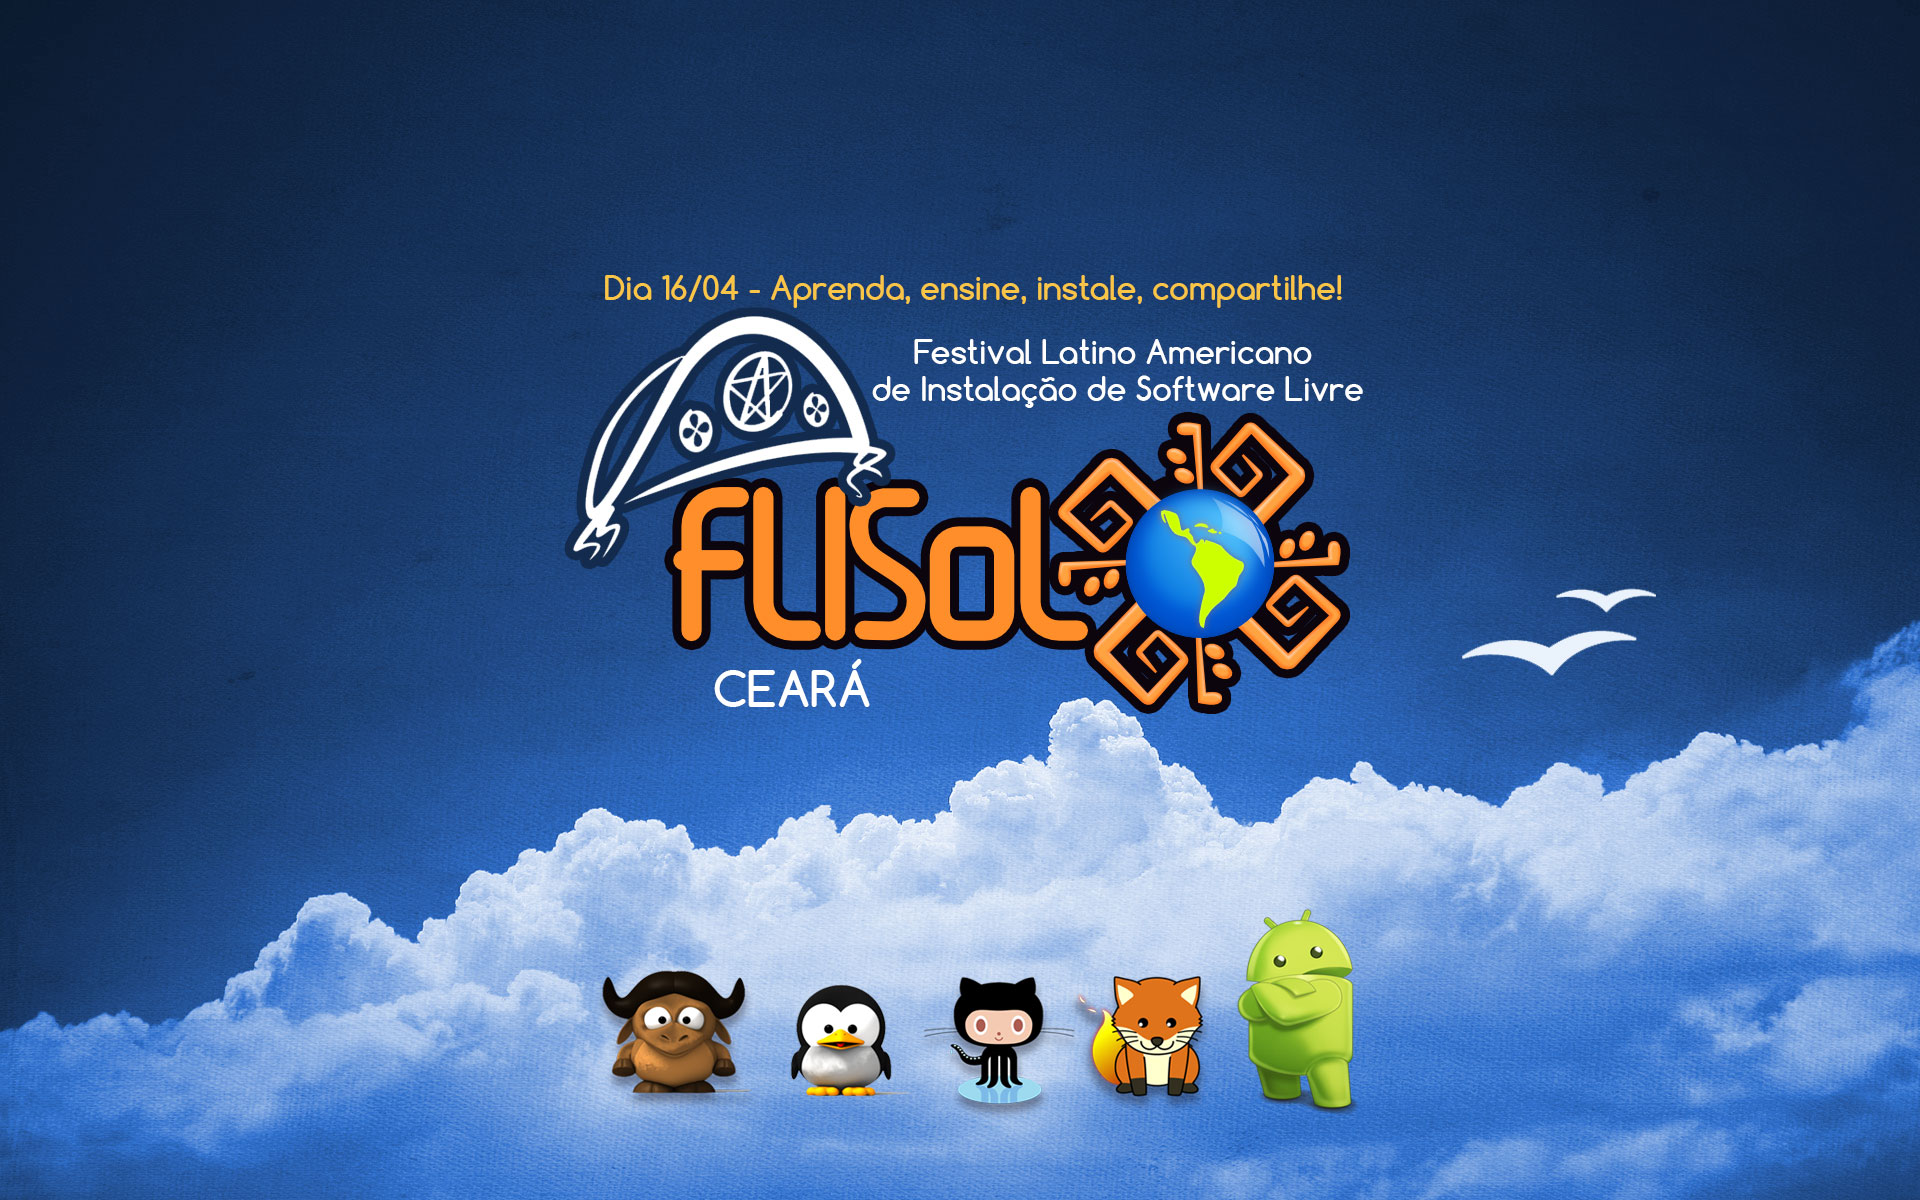
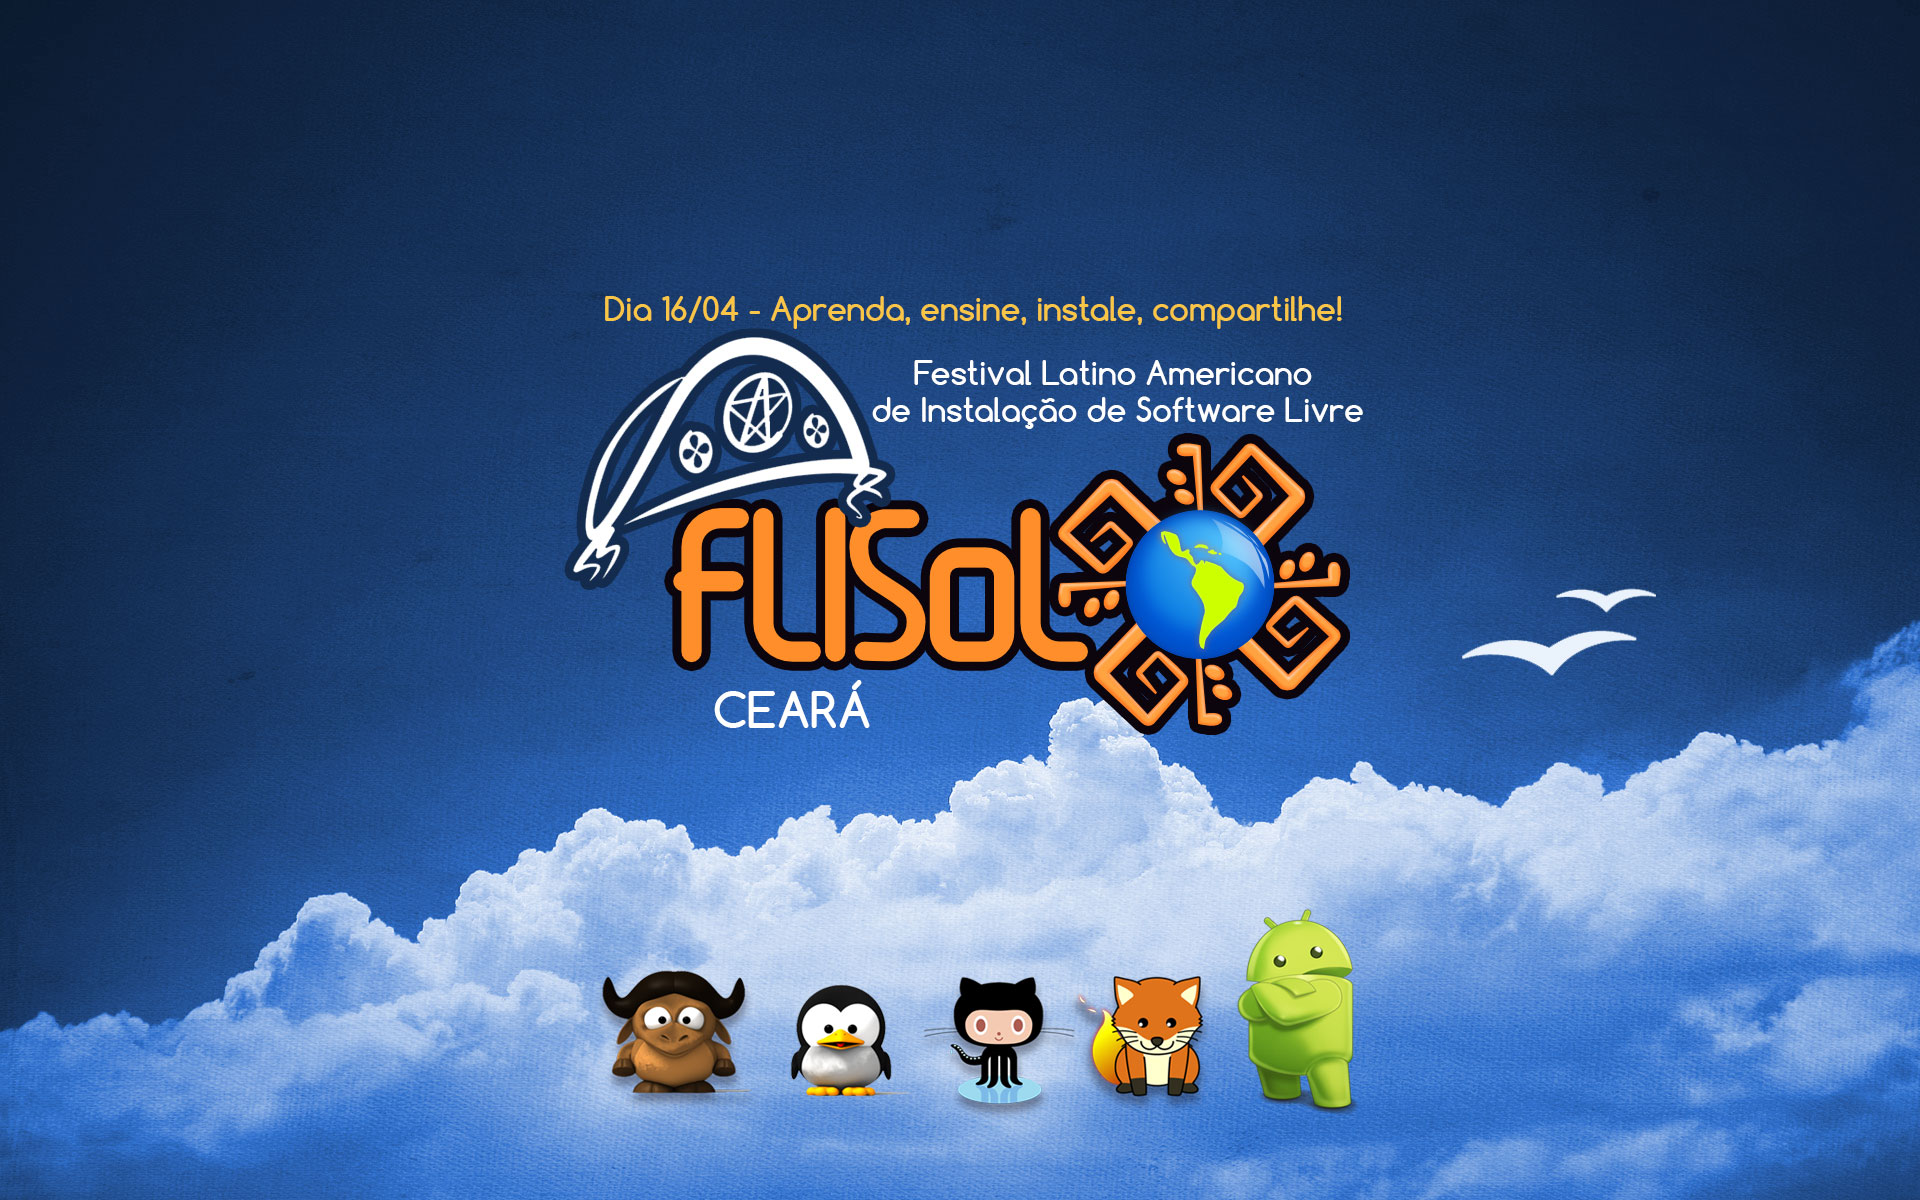
pagina atualizada
ajustado form target e imagem

Changed region(s): [[0.2812, 0.2158, 0.7188, 0.6167]]

diff --git a/flisol2016/public/css/style.css b/flisol2016/public/css/style.css
@@ -268,7 +268,7 @@ ul#menu-main > li > a:hover {
 	background-size: cover;
 	;
 	min-height: 600px;
-	margin-top: -60px;
+	margin-top: -50px;
 	padding-top:480px;
 	text-align:center;
 }

diff --git a/index.php b/index.php
@@ -424,7 +424,7 @@ body {
             <div class="span12">
                 <div class="cform" id="theme-form">
 
-                <form name="emailinfo" action="http://flisolce.org/certificados/flisol2015/index.php" method="GET">
+                <form name="emailinfo" target="_blank" action="http://flisolce.org/certificados/flisol2015/index.php" method="GET">
                  <div class="row row-tipo">
                     <div class="span12">
                       <p>
